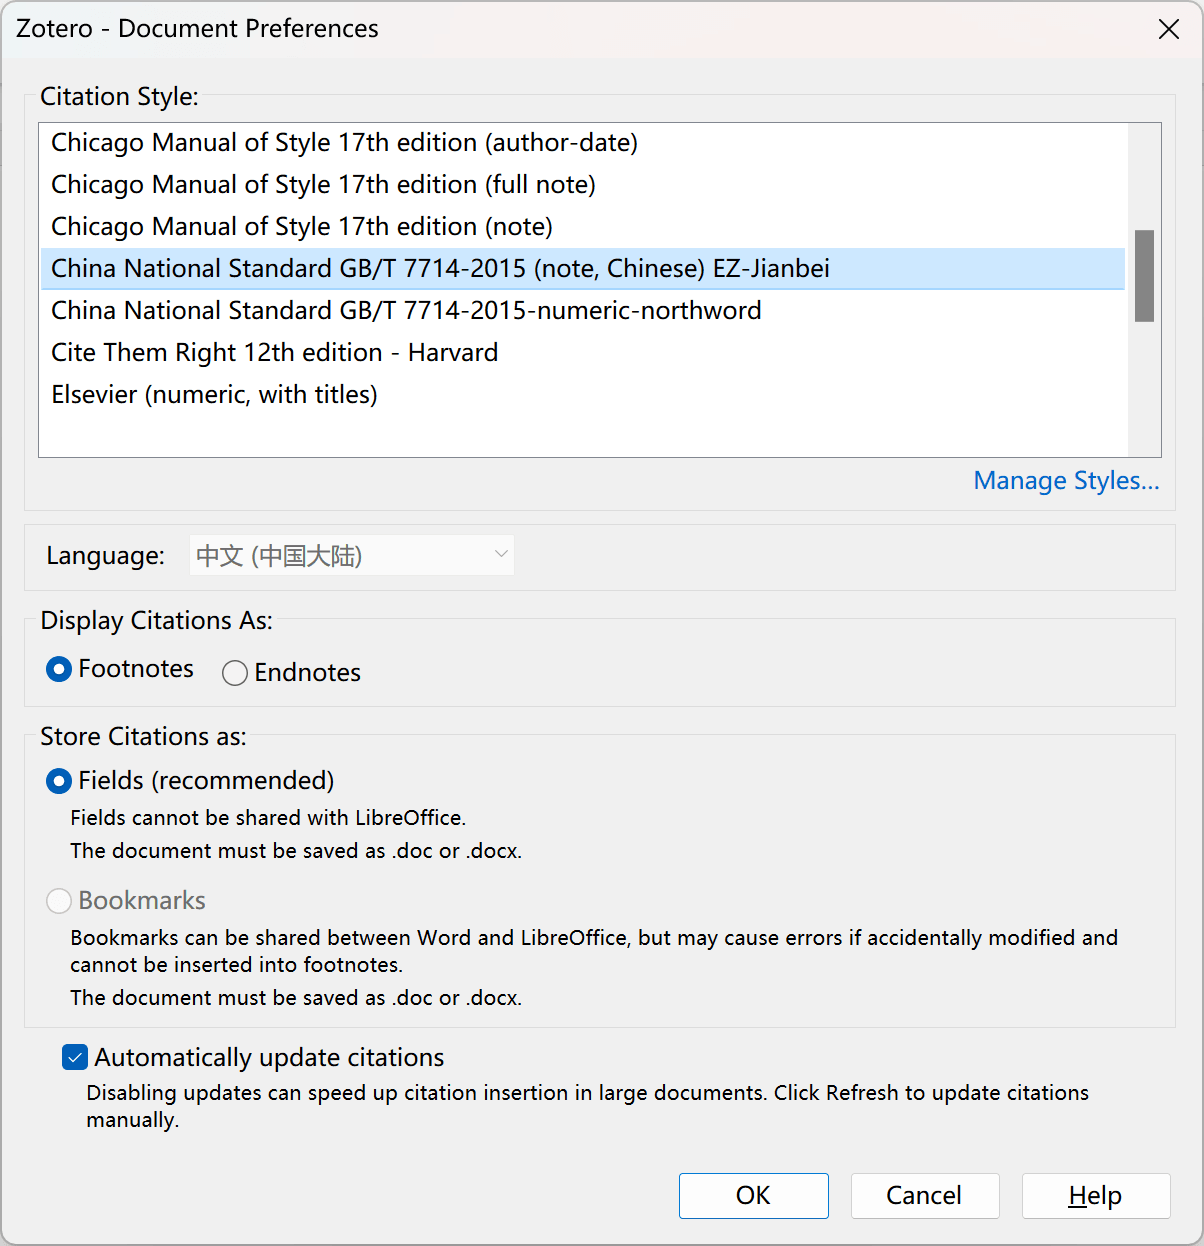
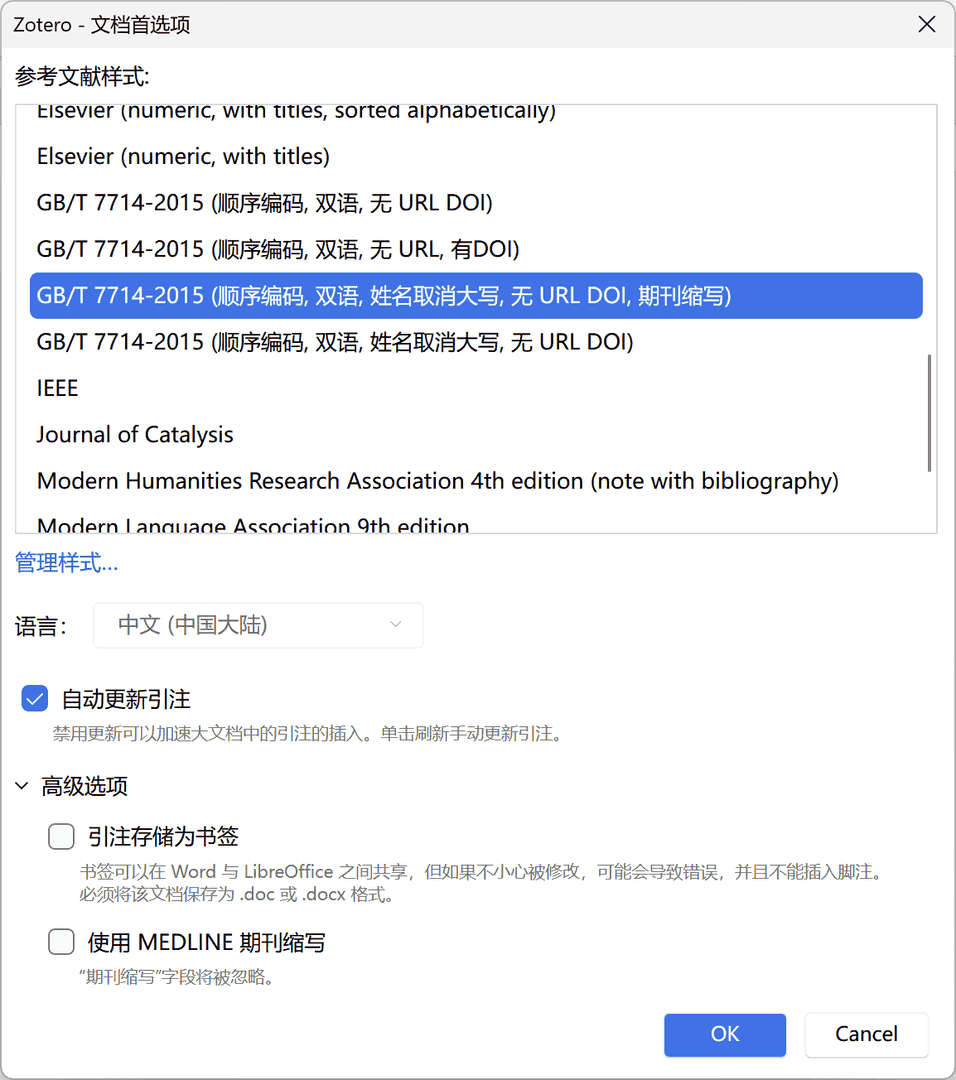
勘误：修复 #346 (#347)

diff --git a/user-guide/ms-word-plugin.md b/user-guide/ms-word-plugin.md
@@ -19,14 +19,14 @@ updated: 2023-07-21 19:01:31
 
 Zotero 选项卡包含以下图标：
 
-| 名称                | 图标                                                                               | 描述                                                                                                                                                   |
-| ------------------- | ---------------------------------------------------------------------------------- | ------------------------------------------------------------------------------------------------------------------------------------------------------ |
-| 添加/编辑引注       | ![插入引文](../assets/icons/integration/icon-word-插入引文-large.png)              | 在光标位置添加新引注或编辑文档中的现有引注。                                                                                                           |
-| 添加/编辑参考文献表 | ![添加参考文献表](../assets/icons/integration/icon-word-添加参考文献表-larger.png) | 在光标位置插入参考文献表或编辑现有书目。                                                                                                               |
-| 添加笔记            |                                                                                    | 在光标当前位置插入笔记。请注意，此功能不常用，点击后会出现黄色插入框。如果不小心点开了，可以用键盘上的 `Esc` 键关闭黄色插入框。                        |
-| 文档首选项          | ![文档首选项](../assets/icons/integration/icon-word-文档首选项.png)                | 打开「文档首选项」窗口，例如更改引文样式。                                                                                                             |
-| 刷新                | ![刷新](../assets/icons/integration/icon-word-刷新.png)                            | 立即刷新所有引注和参考文献表，更新 Zotero 库中已更改的项目元数据。                                                                                     |
-| 取消链接引注        | ![unlink](../assets/icons/integration/icon-word-unlink.png)                        | 通过删除域代码来取消文档中 Zotero 引文的链接。这可以防止引文和书目的任何进一步自动更新。请注意，删除域代码是不可逆的，通常只能在文档的最终副本中完成。 |
+| 名称                | 图标                                                                               | 描述                                                                                                                            |
+| ------------------- | ---------------------------------------------------------------------------------- | ------------------------------------------------------------------------------------------------------------------------------- |
+| 添加/编辑引注       | ![插入引文](../assets/icons/integration/icon-word-插入引文-large.png)              | 在光标位置添加新引注或编辑光标位置现有的现有引注。                                                                              |
+| 添加/编辑参考文献表 | ![添加参考文献表](../assets/icons/integration/icon-word-添加参考文献表-larger.png) | 在光标位置插入参考文献表或编辑现有书目。                                                                                        |
+| 添加笔记            |                                                                                    | 在光标当前位置插入笔记。请注意，此功能不常用，点击后会出现黄色插入框。如果不小心点开了，可以用键盘上的 `Esc` 键关闭黄色插入框。 |
+| 文档首选项          | ![文档首选项](../assets/icons/integration/icon-word-文档首选项.png)                | 打开「文档首选项」窗口，例如更改引文样式。                                                                                      |
+| 刷新                | ![刷新](../assets/icons/integration/icon-word-刷新.png)                            | 立即刷新所有引注和参考文献表，如当前文档所引用的 Zotero 文库条目题录信息发生变动，则本文档的数据也会更新到最新状态。            |
+| 取消链接引注        | ![unlink](../assets/icons/integration/icon-word-unlink.png)                        | 通过删除域代码来取消文档与 Zotero 文库的链接，之后引注和参考文献表将不再会更新。请注意，此操作不可逆，建议仅在定稿时进行。      |
 
 ## 文档首选项
 
@@ -34,25 +34,29 @@ Zotero 选项卡包含以下图标：
 
 「文档首选项」窗口允许您设置以下针对该文档的设置：
 
-1. **引文样式**
+1. **参考文献样式**
 
    一般情况下，你只需要修改这一项，其余设置均保持默认即可。
 
-2. 设置引注和参考文献表的格式的语言。
-3. 对于基于注释的样式，例如「China National Standard GB/T 7714-2015（note，Chinese）」，引文是插入为脚注还或尾注。
+2. 「语言」：设置引注和参考文献表的格式的语言。
+3. 「引注显示为」：对于基于注释的样式，例如「China National Standard GB/T 7714-2015（note，Chinese）」，引文是插入为脚注还或尾注。
 
    脚注和尾注的样式和格式由 Word（而不是 Zotero）控制。
 
-4. 将引文存储为字段还是书签
-
-   默认为「字段」。除非您需要使用 LibreOffice 与同事协作，否则应始终选择「字段」。
-
-5. 对于缩写期刊标题的样式，是否使用 MEDLINE 缩写列表来缩写标题。
-
-   如果选择此选项（默认值），则 Zotero 中「期刊缩写」字段的内容将被忽略。
-
-6. **是否自动更新引注和参考文献表**
+4. **「自动更新引注」**
    一般情况下开启即可。当文档中引文非常多，每次更新都会卡顿时，可以关闭此功能，添加一部分或最终手动进行更新。
+
+   由于在 macOS 上更新引注通常较慢，故 mac 用户可以选择关闭此选项。
+
+5. 「高级选项」
+
+   1. 「将引文存储为书签」
+
+      默认为存储为「字段」。除非您需要使用 LibreOffice 与同事协作，否则应始终选择「字段」。
+
+   2. 「使用 MEDLINE 期刊缩写」
+
+      仅对于缩写期刊标题的样式包含此选项。如果勾选此选项（默认值），则 Zotero 中「期刊缩写」字段的内容将被忽略。
 
 ## 添加引注
 
@@ -102,7 +106,7 @@ Zotero 选项卡包含以下图标：
 
 - 协作者从 TA 自己的文库或您无权访问的群组中插入的
 - 您已从 Zotero 文库中删除了这些条目
-- 你曾经有个一样的重复条目 A 和 B，你在文档里插入了 A，然后再 Zotero 里删除了 A 留下了 B（而不是合并）
+- 你曾经有个一样的重复条目 A 和 B，你在文档里插入了 A，然后在 Zotero 里删除了 A 留下了 B（而不是合并）
 
 Zotero 可以正常为孤立条目排序，但由于你的 Zotero 库中没有这个条目，因此你无法修改它的题录信息。若要更新，请将这些文献重新导入您自己的文库，并重新插入。
 

diff --git a/user-guide/organize-library.md b/user-guide/organize-library.md
@@ -73,7 +73,9 @@ date: 2023-06-28 21:14:16
 
 要**移动**到新的分类并从旧的分类中移除（类似于剪切 - 粘贴，文献将不再出现在原本分类），请在拖动时按住 shift。
 
-要**移除**当前分类下的条目，选中后右键->移除条目，或者按 delete 键（这不会删除条目）。
+要**移除**当前分类下的条目，选中后右键，选择「从分类中移除条目」。
+
+注意，「从分类中移除条目」不会删除条目，只是改变了条目所属的分类。
 
 ### 去除重复条目
 
@@ -91,9 +93,9 @@ date: 2023-06-28 21:14:16
 
 ### 导出条目或 PDF
 
-选中分类或条目，可通过右键导出为 RDF 等方便分享给其他 Zotero 用户或文献管理软件的格式；
+选中分类或条目，可通过右键「导出条目」，可以导出条目题录信息、笔记和文件（可选是否包含注释），以便分享给他人；
 
-要导出 PDF（带高亮注释），请选中一个或多个条目后，从菜单栏 文件->导出 PDFs：
+要导出 PDF（带高亮注释），请选中一个或多个条目后，从菜单栏「文件」->「导出 PDF」：
 
 ![image.png](../assets/images/menu-文件.png)
 

diff --git a/user-guide/add-attachments.md b/user-guide/add-attachments.md
@@ -50,9 +50,13 @@
 
 ### 通过附件菜单
 
-选择一个条目后，可以单击条目列表顶部的「添加附件」回形针按钮。选择「附加文件副本...」或「附加文件链接...」将文件作为附件添加到条目中。
+选择一个条目后，可以单击条目列表顶部的「添加附件」按钮。选择「附加文件...」或「附加文件链接...」将文件作为附件添加到条目中。
 
-您还可以「附加 URI 链接...」以添加指向网页（ `http://` 或 `https://` ）或计算机上其他程序（例如 OneNote `onenote://` ）的链接。
+「添加文件」和「添加文件链接」将会将附件添加为「独立附件」。
+
+如果你没有选择任何条目，则后三个选项将会显示灰色无法点击。
+
+您还可以「添加网页链接...」以添加指向网页（ `http://` 或 `https://` ）或计算机上其他程序（例如 OneNote `onenote://` ）的链接。
 
 ![添加附件](../assets/images/添加附件.png)
 
